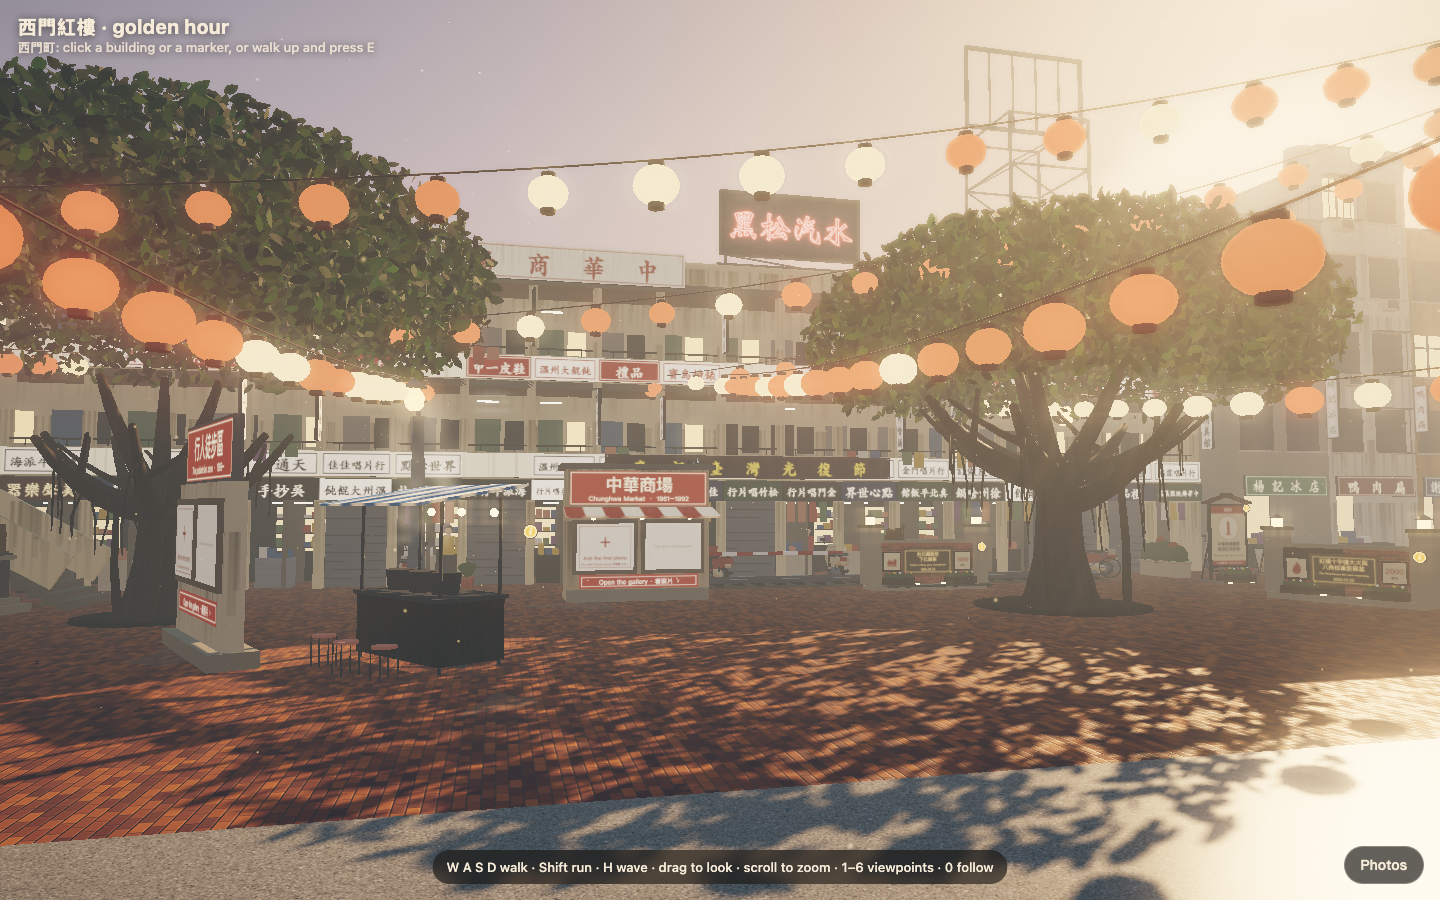
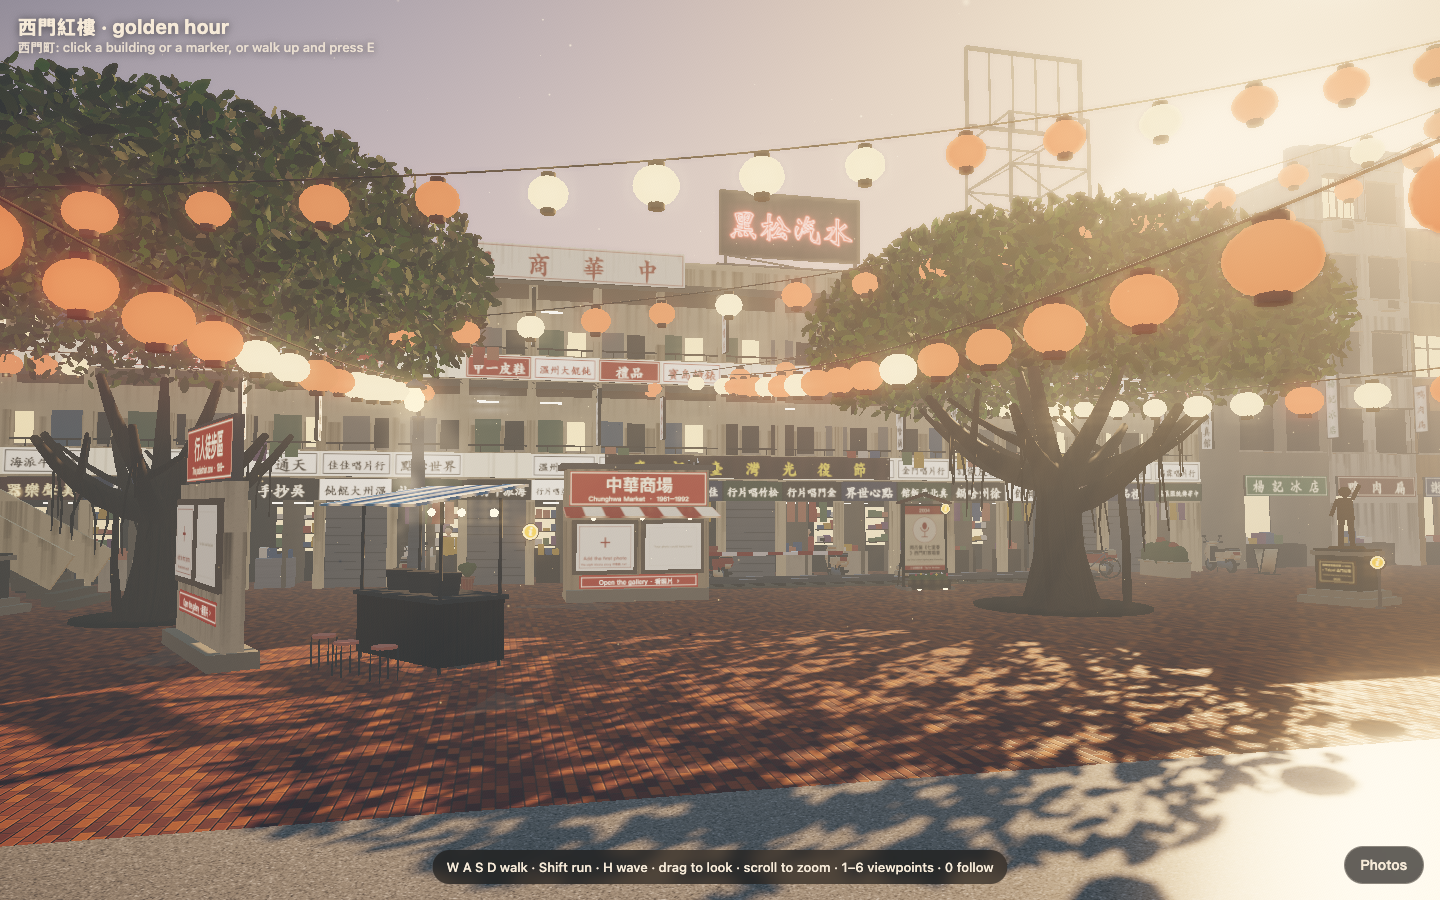
feat(remake): Midjourney-painted pictures on the cinema billboard, film posters and 來來 poster
Seven period-style images with generic faces and no lettering; titles stay
drawn in code. Boards fall back to the code-drawn picture until theirs loads.

diff --git a/remake/landmarks-ximen.js b/remake/landmarks-ximen.js
@@ -68,7 +68,7 @@ const world = (g, x, y, z) => g.localToWorld(new T.Vector3(x, y, z));
 // ── signs and painted boards (canvas text; no logo is copied) ────────────────────────────────
 const EDGE = std('#231f1c', 0.6);
 function boardMesh(cv, w, h, o) {
-  const t = new T.CanvasTexture(cv); t.encoding = T.sRGBEncoding; t.anisotropy = 8;
+  const t = new T.CanvasTexture(cv); t.encoding = T.sRGBEncoding; t.anisotropy = 8; cv.__tex = t;
   const m = new T.MeshStandardMaterial({ map: t, roughness: 0.6, emissiveMap: t, emissive: new T.Color(1, 1, 1), emissiveIntensity: (o.glow == null ? 0.4 : o.glow) * (o.light ? 0.42 : 1) });
   const mesh = new T.Mesh(new T.BoxGeometry(w, h, o.depth || 0.1), [EDGE, EDGE, EDGE, EDGE, m, o.oneSide ? EDGE : m]); mesh.castShadow = !o.noCast; return mesh;
 }
@@ -114,8 +114,14 @@ function sign(text, w, h, o = {}) {
   }, o);
 }
 // a hand-painted film billboard: a dusk sky, two painted figures, a title in fat brushed characters (titles are made up)
+// The painted pictures are Midjourney images made for this scene (CJ, 2026-11-21: 「需要圖的話也可以去midjourney做」), in asset/textures/posters/: generic faces,
+// no real actor, no lettering. Each board draws its code-painted version first and repaints itself when its picture has loaded; titles stay our own lettering.
+const POSTERS = '../asset/textures/posters/';
+const coverImg = (g, W, H, im) => { const k = Math.max(W / im.width, H / im.height), w = im.width * k, h = im.height * k; g.drawImage(im, (W - w) / 2, (H - h) / 2, w, h); };
+const onImg = (g, file, cb) => { const im = new Image(); im.onload = () => { cb(im); if (g.canvas.__tex) g.canvas.__tex.needsUpdate = true; }; im.src = POSTERS + file; };
 function filmPoster(title, tag, hue, grid) {
-  return (g, W, H) => {
+  return function inner(g, W, H, im) {
+    if (grid && grid.img && !im) onImg(g, grid.img, i => inner(g, W, H, i));
     const sky = g.createLinearGradient(0, 0, 0, H); sky.addColorStop(0, `hsl(${hue + 200},55%,24%)`); sky.addColorStop(0.5, `hsl(${hue + 330},60%,46%)`); sky.addColorStop(0.78, `hsl(${hue + 28},85%,58%)`); sky.addColorStop(1, `hsl(${hue + 45},90%,70%)`);
     g.fillStyle = sky; g.fillRect(0, 0, W, H);
     g.fillStyle = 'rgba(255,236,170,.9)'; g.beginPath(); g.arc(W * 0.3, H * 0.62, W * 0.11, 0, 7); g.fill();
@@ -133,13 +139,14 @@ function filmPoster(title, tag, hue, grid) {
       g.strokeStyle = 'rgba(255,235,200,.25)'; g.lineWidth = s * 0.04; g.beginPath(); g.moveTo(cx - s * 0.3, cy - s * 0.62); g.quadraticCurveTo(cx, cy - s * 0.72, cx + s * 0.3, cy - s * 0.58); g.stroke(); };
     bust(W * 0.36, H * 0.4, W * 0.17, `hsl(${hue + 10},70%,42%)`, true); bust(W * 0.66, H * 0.33, W * 0.2, `hsl(${hue + 215},45%,30%)`, false);
     for (let i = 0; i < 260; i++) { g.strokeStyle = `rgba(${rnd() < 0.5 ? '255,240,210' : '40,20,30'},${0.03 + rnd() * 0.07})`; g.lineWidth = 2 + rnd() * 7; const x = rnd() * W, y = rnd() * H; g.beginPath(); g.moveTo(x, y); g.lineTo(x + (rnd() - 0.5) * W * 0.18, y + (rnd() - 0.5) * H * 0.05); g.stroke(); }   // brush marks
+    if (im) coverImg(g, W, H, im);
     g.textAlign = 'center'; g.textBaseline = 'middle'; g.lineJoin = 'round';
     // a foreign film's board, as on 樂聲 in the 1964 opening newsreel: the title in heavy block characters read right to left, the English title under it
-    const en = grid && grid.en, tt = en ? [...title].reverse().join('　') : title, ty = H * (en ? 0.725 : 0.76), size = Math.min(W * 0.92 / [...tt].length, H * 0.2);
-    if (en) { g.fillStyle = 'rgba(20,12,30,.72)'; g.fillRect(0, H * 0.6, W, H * 0.28); }
-    g.font = `900 ${size}px ${en ? FONT : WEI}`; g.lineWidth = size * 0.2; g.strokeStyle = '#fff6e0'; if (!en) g.strokeText(tt, W / 2, ty); g.lineWidth = size * 0.1; g.strokeStyle = '#7a120c'; g.strokeText(tt, W / 2, ty); g.fillStyle = en ? '#fff6e0' : '#ffd21f'; g.fillText(tt, W / 2, ty);
-    if (en) { g.font = `800 ${H * 0.045}px "Arial Narrow", "Helvetica Neue", Arial, sans-serif`; g.fillStyle = '#ffd21f'; g.fillText(en.split('').join(' '), W / 2, H * 0.842); }
-    g.font = `800 ${H * 0.062}px ${KAI}`; g.fillStyle = '#fff'; g.fillRect(W * 0.2, H * 0.885, W * 0.6, H * 0.085); g.fillStyle = '#b3271e'; g.fillText(tag, W / 2, H * 0.93);
+    const en = grid && grid.en, tt = en ? [...title].reverse().join('　') : title, side = en && im, tx = side ? W * 0.25 : W / 2, ty = H * (side ? 0.885 : en ? 0.725 : 0.76), size = Math.min(W * (side ? 0.44 : 0.92) / [...tt].length, H * 0.2);   // with the picture in, the title sits in the dark band the painter left at lower left
+    if (en && !im) { g.fillStyle = 'rgba(20,12,30,.72)'; g.fillRect(0, H * 0.6, W, H * 0.28); }
+    g.font = `900 ${size}px ${en ? FONT : WEI}`; g.lineWidth = size * 0.2; g.strokeStyle = '#fff6e0'; if (!en) g.strokeText(tt, tx, ty); g.lineWidth = size * 0.1; g.strokeStyle = '#7a120c'; g.strokeText(tt, tx, ty); g.fillStyle = en ? '#fff6e0' : '#ffd21f'; g.fillText(tt, tx, ty);
+    if (en) { g.font = `800 ${H * (side ? 0.03 : 0.045)}px "Arial Narrow", "Helvetica Neue", Arial, sans-serif`; g.fillStyle = '#ffd21f'; g.fillText(en.split('').join(' '), tx, H * (side ? 0.962 : 0.842)); }
+    g.font = `800 ${H * 0.062}px ${KAI}`; const gy = side ? 0.015 : 0.885; g.fillStyle = '#fff'; g.fillRect(W * 0.2, H * gy, W * 0.6, H * 0.085); g.fillStyle = '#b3271e'; g.fillText(tag, W / 2, H * (gy + 0.045));
     if (grid) { g.fillStyle = 'rgba(20,10,5,.4)'; for (let i = 1; i < grid.cols; i++) g.fillRect(W * i / grid.cols - 1.5, 0, 3, H); for (let i = 1; i < grid.rows; i++) g.fillRect(0, H * i / grid.rows - 1.5, W, 3); }   // the seams between the 6尺 canvas panels
     g.strokeStyle = '#f3e6c8'; g.lineWidth = Math.max(3, W * 0.012); g.strokeRect(g.lineWidth / 2, g.lineWidth / 2, W - g.lineWidth, H - g.lineWidth);
   };
@@ -314,7 +321,7 @@ function cinema() {
   K.bx(x0, x1, G, H, -D, -0.1, M.cream); K.bx(x0, x1, 0, G, -D, -3.0, M.dark); K.bx(x0, x0 + 0.5, 0, H + 1, -D, 0, M.ochre); K.bx(x1 - 0.5, x1, 0, H + 1, -D, 0, M.ochre);
   K.bx(x0, x1, H, H + 1, -0.5, 0, M.ochre); K.bx(x0 - 0.06, x1 + 0.06, H + 1, H + 1.15, -0.6, 0.1, M.concDk); for (let i = 0; i < 7; i++) K.bx(x0 + 0.5, x1 - 0.5, 5.6 + i * 1.9, 5.7 + i * 1.9, -0.1, -0.02, M.ochre);
   // the hand-painted billboard over the whole upper front, cloth banners either side
-  K.bx(-3.75, 3.75, 6.3, 16.5, -0.1, 0.14, M.woodDk); K.mesh(paint(7.2, 9.0, filmPoster('畢業生', '本院獨家獻映', 0, { cols: 4, rows: 5, en: 'THE GRADUATE' }), { glow: 0.42, oneSide: true, ppm: 100, depth: 0.08 }), 0, 11.4, 0.18);   // 豪華 ran 《畢業生》 alone in 1973, queues for a month; a board is 20 panels of 6尺, four across and five up
+  K.bx(-3.75, 3.75, 6.3, 16.5, -0.1, 0.14, M.woodDk); K.mesh(paint(7.2, 9.0, filmPoster('畢業生', '本院獨家獻映', 0, { cols: 4, rows: 5, en: 'THE GRADUATE', img: 'billboard.jpg' }), { glow: 0.42, oneSide: true, ppm: 100, depth: 0.08 }), 0, 11.4, 0.18);   // 豪華 ran 《畢業生》 alone in 1973, queues for a month; a board is 20 panels of 6尺, four across and five up
   [[-4.25, '冷氣開放', '#b3271e', '#ffe14a'], [4.25, '獨家獻映', '#f3ecd9', '#b3271e']].forEach(([x, t, bg, fg]) => K.mesh(sign(t, 0.8, 6.4, { vertical: true, kind: 'cloth', font: WEI, bg, fg, glow: 0.7, depth: 0.03 }), x, 11.6, 0.12));
   K.mesh(sign('豪華大戲院', 6.4, 1.6, { kind: 'neon', bg: '#1a0d0b', fg: '#ffd24a', font: WEI, spread: true, glow: 1.5, oneSide: true }), 0, 17.6, 0.06);
   K.mesh(sign('豪華大戲院', 1.15, 7.5, { vertical: true, kind: 'neon', font: WEI, bg: '#151515', fg: '#ff5a48', glow: 1.7 }), x1 + 0.1, 11.4, 1.0, Math.PI / 2); [9.2, 13.6].forEach(y => K.bx(x1 + 0.07, x1 + 0.13, y, y + 0.06, 0, 0.45, M.frame));
@@ -328,7 +335,7 @@ function cinema() {
   K.mesh(sign('售票處', 1.9, 0.5, { kind: 'box', font: KAI, bg: '#ffe14a', fg: '#7a120c', spread: true, glow: 0.9, oneSide: true }), -3.3, 2.5, -0.14); K.mesh(sign('全票　半票　軍警票', 1.9, 0.26, { bg: '#f3ecd9', fg: '#1a1a1a', glow: 0.6, oneSide: true, border: false }), -3.3, 0.8, -0.14);
   [-0.55, 1.1].forEach(x => { K.bx(x - 0.75, x + 0.75, 0, 2.6, -2.2, -2.1, M.red); K.bx(x - 0.03, x + 0.03, 0, 2.6, -2.1, -2.06, M.gold); [-0.38, 0.38].forEach(d => { K.cyl(0.2, 0.2, 0.05, M.winLit, x + d, 1.7, -2.08, 12, [Math.PI / 2, 0, 0]); K.bx(x + d * 0.2 - 0.02, x + d * 0.2 + 0.02, 0.9, 1.3, -2.08, -2.0, M.gold); }); });
   K.bx(-1.5, 2.1, 2.6, 3.0, -2.2, -2.05, M.gold); K.bx(-1.9, 4.7, 0.05, 3.6, -2.98, -2.94, M.shopLit);
-  [['真善美', 2.9, 120], ['回到未來', 4.05, 220]].forEach(([t, x, hue]) => { K.bx(x - 0.52, x + 0.52, 0.55, 2.35, -0.4, -0.2, M.woodDk); K.mesh(paint(0.9, 1.6, filmPoster(t, '下期上映', hue), { glow: 0.75, oneSide: true, ppm: 160, depth: 0.04 }), x, 1.45, -0.18); });
+  [['真善美', 2.9, 120, 'case-a.jpg'], ['回到未來', 4.05, 220, 'case-b.jpg']].forEach(([t, x, hue, img]) => { K.bx(x - 0.52, x + 0.52, 0.55, 2.35, -0.4, -0.2, M.woodDk); K.mesh(paint(0.9, 1.6, filmPoster(t, '下期上映', hue, { img }), { glow: 0.75, oneSide: true, ppm: 160, depth: 0.04 }), x, 1.45, -0.18); });
   for (let i = 0; i < 4; i++) { const x = -4.4 + i * 0.95; K.cyl(0.035, 0.035, 0.95, M.gold, x, 0.475, 1.3, 8); K.cyl(0.14, 0.16, 0.04, M.gold, x, 0.02, 1.3, 10); K.sph(0.06, M.gold, x, 0.98, 1.3); if (i) K.box(0.95, 0.04, 0.04, M.redDk, x - 0.475, 0.82, 1.3, 0, 0, 0); }
   person(K, -3.9, 0.6, Math.PI, {}); person(K, -3.2, 1.0, Math.PI + 0.2, {}); person(K, -2.6, 0.7, Math.PI - 0.3, {}); person(K, 3.4, 0.5, Math.PI + 0.1, { reach: true });
   K.cyl(1.0, 1.0, 2.6, M.steel, 0, H + 2.3, -7, 14);
@@ -435,7 +442,7 @@ function lions() {
   K.bx(x0, x1, G, G + P * 3.2, -D, -0.05, M.tan); for (let i = 0; i <= 13; i++) K.bx(x0 + i - 0.06, x0 + i + 0.06, G, G + P * 3.2, -0.05, 0.05, M.tanDk);
   const top = facade(K, { x0, x1, y0: G + P * 3.2, floors: 5, fh: 3.2, bays: 8, wall: M.tan, band: M.tanDk, depth: D, pier: 0.34, sill: 1.0, lit: 0.2 });
   K.bx(x0, x1, top, top + 1.0, -0.4, 0, M.tan); K.bx(x0, x1, top, top + 0.2, -D, -0.4, M.concDk); waterTank(K, -3, top + 0.2, -6); K.bx(1, 5, top + 0.2, top + 3, -8, -4, M.tanDk);
-  [['好小子', -4.1, 40], ['大頭兵', 0, 150], ['七匹狼', 4.1, 260]].forEach(([t, x, hue]) => { K.bx(x - 1.85, x + 1.85, G + 4.5, G + 11.3, -0.05, 0.1, M.woodDk); K.mesh(paint(3.5, 6.5, filmPoster(t, '樓上戲院上映', hue), { glow: 0.42, oneSide: true, ppm: 110, depth: 0.06 }), x, G + 7.9, 0.13); });
+  [['好小子', -4.1, 40, 'kids.jpg'], ['大頭兵', 0, 150, 'army.jpg'], ['七匹狼', 4.1, 260, 'denim.jpg']].forEach(([t, x, hue, img]) => { K.bx(x - 1.85, x + 1.85, G + 4.5, G + 11.3, -0.05, 0.1, M.woodDk); K.mesh(paint(3.5, 6.5, filmPoster(t, '樓上戲院上映', hue, { img }), { glow: 0.42, oneSide: true, ppm: 110, depth: 0.06 }), x, G + 7.9, 0.13); });
   K.mesh(sign('獅子林商業大樓', 10.5, 1.7, { bg: '#8f6f4e', fg: '#d9261c', font: WEI, spread: true, border: false, glow: 0.8, oneSide: true }), 0, G + 2.2, 0.12);
   K.mesh(sign('獅子林', 1.3, 9, { vertical: true, kind: 'neon', font: WEI, bg: '#151515', fg: '#ffb23a', glow: 1.6 }), x1 + 0.1, top - 6, 1.0, Math.PI / 2);
   // street level: a wide mouth, two escalators rising inside a lit lobby
@@ -465,7 +472,8 @@ function lailai() {
     g.fillStyle = '#eec3a0'; g.beginPath(); g.ellipse(W * 0.5, H * 0.4, W * 0.23, H * 0.2, 0, 0, 7); g.fill(); g.fillRect(W * 0.42, H * 0.55, W * 0.16, H * 0.12); g.fillStyle = 'rgba(170,90,60,.3)'; g.beginPath(); g.ellipse(W * 0.6, H * 0.42, W * 0.12, H * 0.17, 0, 0, 7); g.fill();
     g.fillStyle = '#2a1a14'; g.beginPath(); g.ellipse(W * 0.5, H * 0.27, W * 0.25, H * 0.09, 0, Math.PI, 0); g.fill(); g.strokeStyle = '#2a1a14'; g.lineCap = 'round'; g.lineWidth = W * 0.014; [-1, 1].forEach(k => { g.beginPath(); g.moveTo(W * (0.5 + k * 0.14), H * 0.385); g.quadraticCurveTo(W * (0.5 + k * 0.09), H * 0.37, W * (0.5 + k * 0.045), H * 0.385); g.stroke(); });
     g.fillStyle = '#b3271e'; g.beginPath(); g.ellipse(W * 0.5, H * 0.5, W * 0.06, H * 0.013, 0, 0, 7); g.fill(); g.fillStyle = '#16306e'; g.beginPath(); g.ellipse(W * 0.5, H * 0.78, W * 0.42, H * 0.13, 0, Math.PI, 0); g.fill(); g.fillRect(0, H * 0.78, W, H * 0.22);
-    g.fillStyle = '#fff'; g.textAlign = 'center'; g.textBaseline = 'middle'; g.font = `700 ${H * 0.13}px Georgia, "Times New Roman", serif`; [...'OPEN'].forEach((c, i) => g.fillText(c, W * (0.2 + i * 0.2), H * 0.89)); }, { glow: 0.4, oneSide: true, depth: 0.04 }), 0, G + fh + 7.4, 0.14);
+    g.fillStyle = '#fff'; g.textAlign = 'center'; g.textBaseline = 'middle'; g.font = `700 ${H * 0.13}px Georgia, "Times New Roman", serif`; [...'OPEN'].forEach((c, i) => g.fillText(c, W * (0.2 + i * 0.2), H * 0.89));
+    onImg(g, 'lailai.jpg', im => { coverImg(g, W, H, im); g.fillStyle = '#16306e'; g.fillRect(0, H * 0.83, W, H * 0.17); g.fillStyle = '#fff'; g.textAlign = 'center'; g.textBaseline = 'middle'; g.font = `700 ${H * 0.11}px Georgia, "Times New Roman", serif`; [...'OPEN'].forEach((c, i) => g.fillText(c, W * (0.2 + i * 0.2), H * 0.915)); }); }, { glow: 0.4, oneSide: true, depth: 0.04 }), 0, G + fh + 7.4, 0.14);
   // street level: display windows with mannequins, glass doors under a canopy
   K.bx(x0, x1, 0, G, -D, -2.6, M.dark); [x0, -2.2, 1.7, x1 - 0.5].forEach(x => K.bx(x, x + 0.5, 0, G, -2.6, 0, M.white)); K.bx(x0, x1, G - 0.6, G, -2.6, 0, M.white); K.bx(-2.6, 2.6, 3.5, 3.8, 0, 1.9, M.blue);
   K.bx(-1.7, 1.7, 0, 3.4, -0.5, -0.45, M.glassBlue); [-1.7, -0.85, 0, 0.85, 1.67].forEach(x => K.bx(x - 0.03, x + 0.03, 0, 3.4, -0.45, -0.4, M.steel)); K.bx(-1.6, 1.6, 0.1, 3.3, -2.58, -2.54, M.shopLit);

diff --git a/docs/signage/sources.md b/docs/signage/sources.md
@@ -70,6 +70,10 @@ CJ, 2026-11-21: 「還有這些招牌都怪怪的請出搜尋真實招牌 海報
 | 捷運6號出口 | 西門 Ximen / 出口 6 Exit, white on Metro blue | none opened | inferred |
 | Fill-in shophouses | 世運食品, 美觀園, 老天祿, 雪王冰淇淋, 大車輪, 楊記冰店, 鴨肉扁, 謝謝魷魚羹, 金園排骨, 天天利, 張記排骨酥 | none opened this session | inferred (old Ximending shops from general knowledge; not at their real addresses) |
 
+## Poster pictures
+
+CJ, 2026-11-21: 「需要圖的話也可以去midjourney做」, then "You pick". The painted pictures on the 豪華 billboard, the two poster cases, the three 獅子林 posters and the 來來 poster are Midjourney images made for this scene, in `asset/textures/posters/` (`billboard`, `case-a`, `case-b`, `kids`, `army`, `denim`, `lailai`). They show generic faces, no real actor and no lettering; the titles on top are still drawn in code. Each prompt asked for a hand-painted Taiwanese cinema poster of the period; the pictures are in period style, not copies of the real posters of those films. Jobs: `0b22f3d5` (images 2, 0, 3), `ab6bc0bf` (2), `7fccaf54` (0), `b1074ce2` (2), `bc9efd63` (2).
+
 ## Not done
 
 - 西門紅樓 itself has no sign in the scene; the real one is a small stone plaque over the door (S27).
